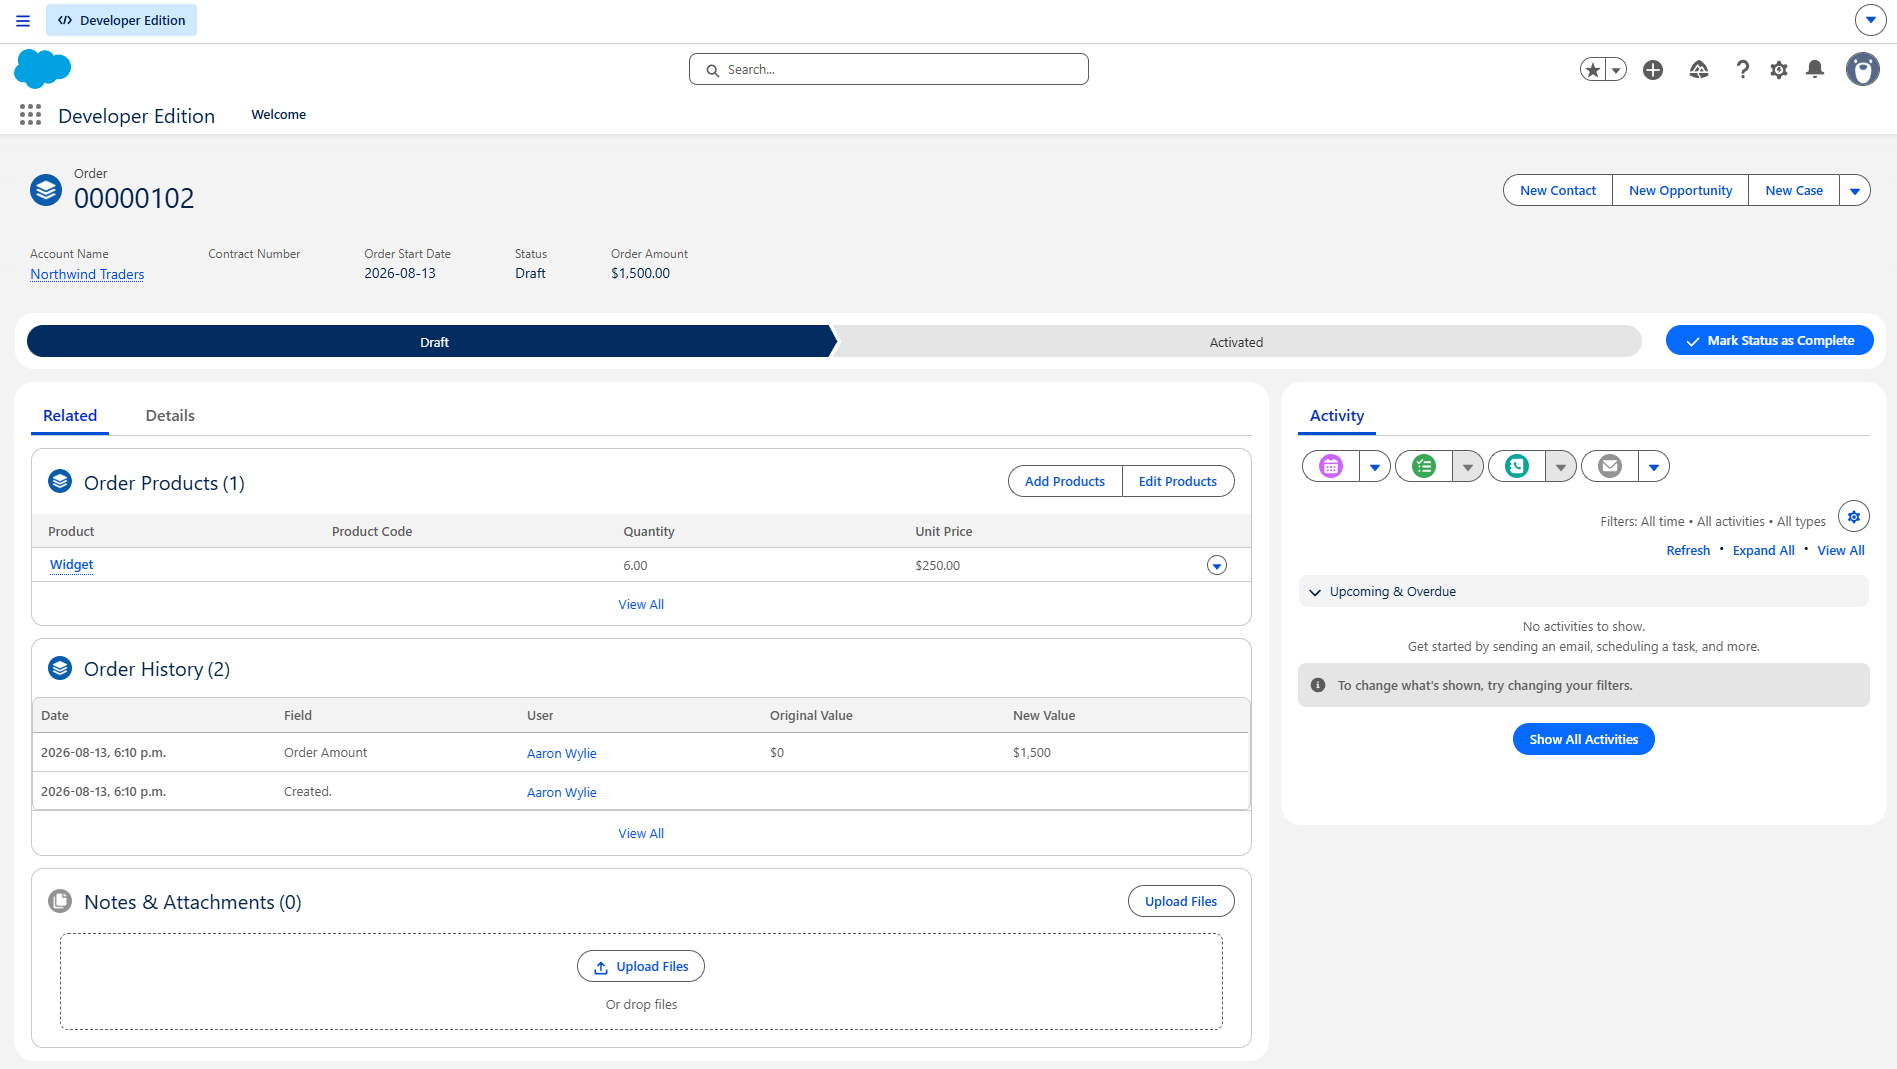
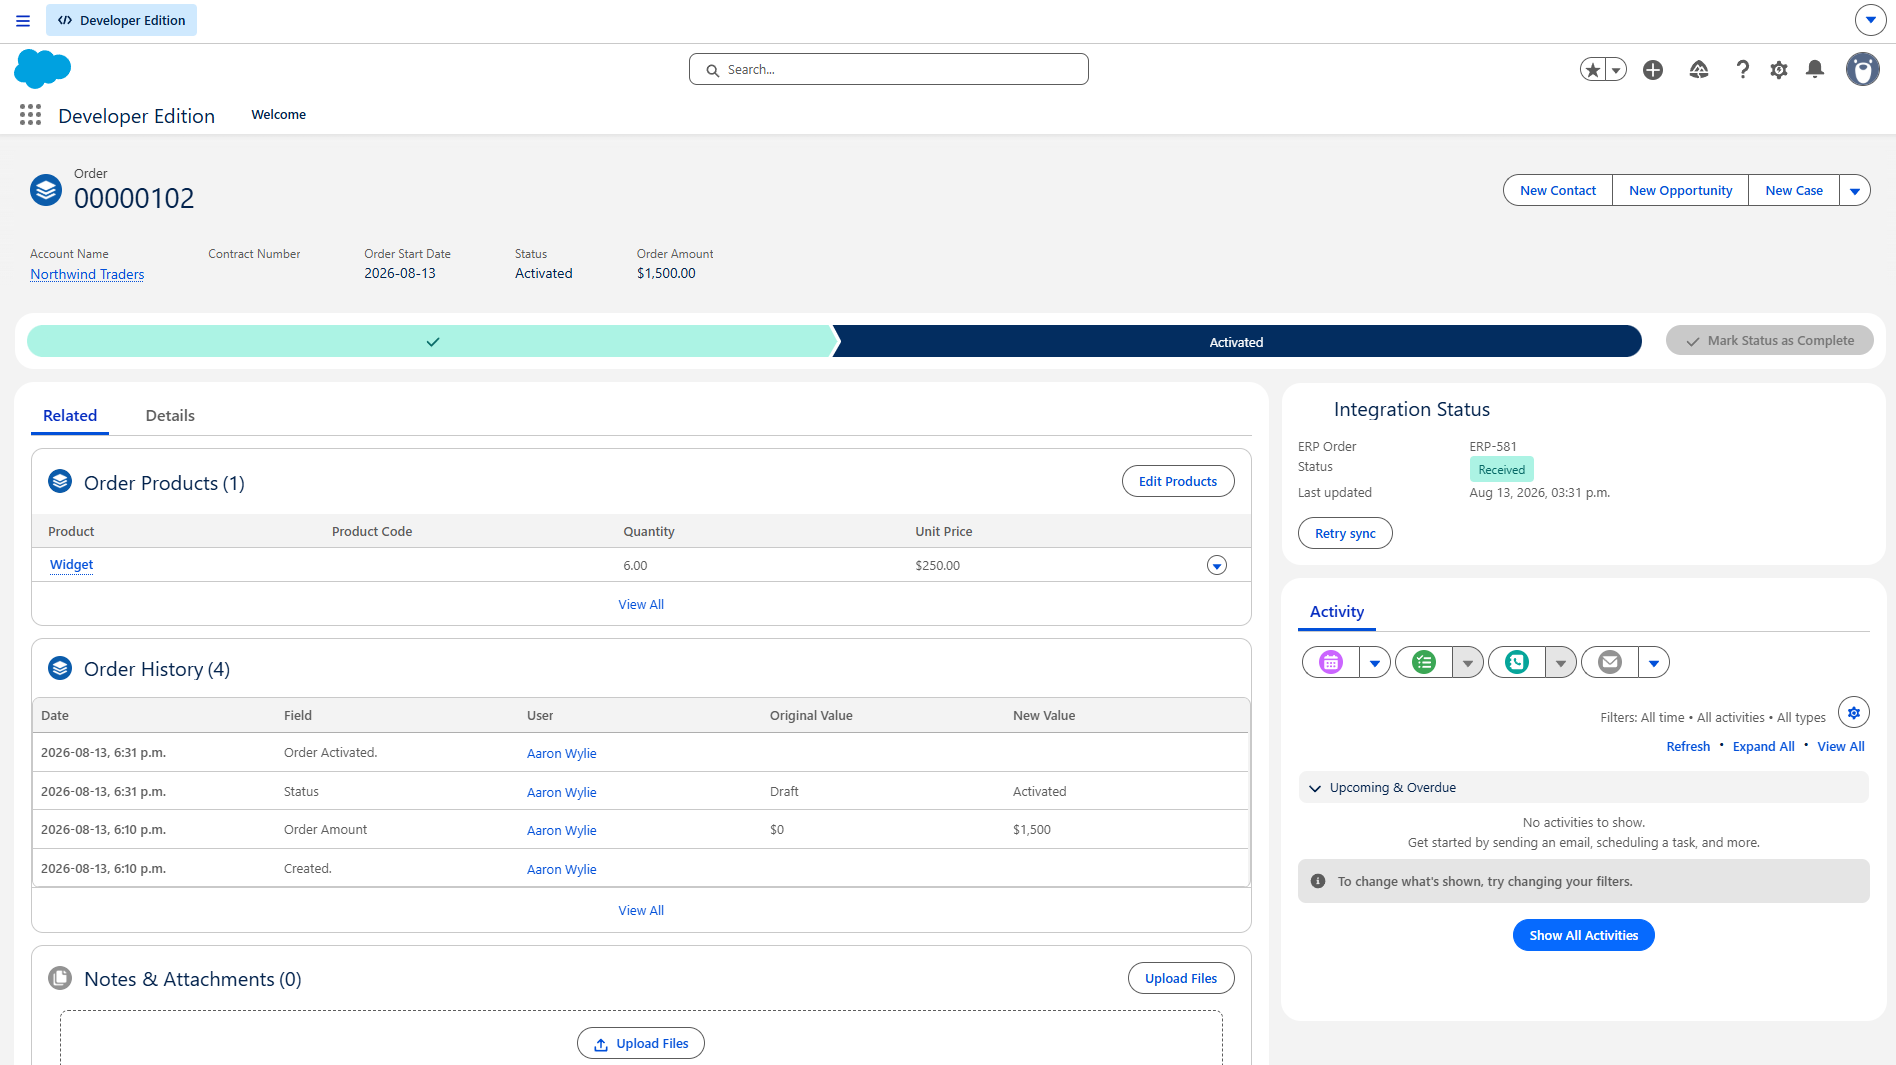
Show the order after activation, not before
The draft screenshot showed the setup but not the payoff. This one shows
the Integration Status panel reporting ERP-581 received, which is the
whole point of the project visible in a single frame -- a salesperson
can see where an order is without leaving the screen they work in.

Includes the log timings behind it: 156ms from platform event to ERP
delivery. Worth stating plainly, because the panel deliberately gives no
hint of the machinery involved.

diff --git a/README.md b/README.md
@@ -82,24 +82,36 @@ rather than by asking an engineer to check the logs.
 
 ### Where it starts: a salesperson, in Salesforce
 
-![An order in Salesforce, still a draft](docs/images/salesforce-dashboard.png)
+![An activated order in Salesforce, showing it reached the ERP](docs/images/salesforce-dashboard.png)
 
-An order for Northwind Traders — six Widgets, $1,500 — sitting in **Draft**. Draft means
-the sales rep is still working on it, and deliberately nothing has been sent anywhere:
-the warehouse has no idea this order exists, and should not, because a draft may still
-be changed or abandoned.
+An order for Northwind Traders — six Widgets, $1,500 — moments after the rep clicked it
+from **Draft** to **Activated**. That single click is the entire trigger for everything
+else in this project. Nobody filled in a second system, pressed a sync button, or told
+the warehouse.
 
-The bar across the middle is the only thing that matters. When the rep clicks through
-from **Draft** to **Activated**, that single click is the entire trigger for everything
-else in this project. They do not fill in a second system, press a sync button, or tell
-anyone. Within a second or two the order is in the warehouse system, and the rep never
-knows Kafka exists.
+The **Integration Status** panel on the right is the only part of this page that knows
+an integration exists. It reports that the warehouse has the order and calls it
+**ERP-581**, and that this was true as of 3:31pm. If it had not arrived, that badge
+would say so, and the **Retry sync** button beside it lets the rep resend without
+raising a ticket.
 
-That is the whole design goal, stated as a screenshot: the integration is invisible from
-here. The only place it becomes visible is the optional **Integration Status** panel
-([an LWC](salesforce/force-app/main/default/lwc/orderIntegrationStatus/)) that can be
-dropped onto this page, which answers "did that actually go through?" without anyone
-having to ask an engineer.
+Everything between those two facts — the click and the badge — took **156 milliseconds**:
+
+```
+15:31:30.210  Published order 00000102 in status ACTIVATED
+15:31:30.273  Sending order 00000102 to the ERP
+15:31:30.366  Order 00000102 is ERP-581 in the ERP
+```
+
+For the rep, though, the interesting number is that they never had to know any of it
+happened. A well-behaved integration is one nobody notices, and the panel exists only
+because "did that actually go through?" is a question people will ask regardless — it is
+better answered on the screen they already work in than by an engineer reading logs.
+
+> The panel reads the record through Lightning Data Service rather than a server call.
+> An earlier version queried Apex and confidently displayed "this order is still a
+> draft" on a page whose own header read *Activated* — a `@wire` to Apex only re-runs
+> when its arguments change, and the record id does not change when the record does.
 
 ### What happens behind it
 
